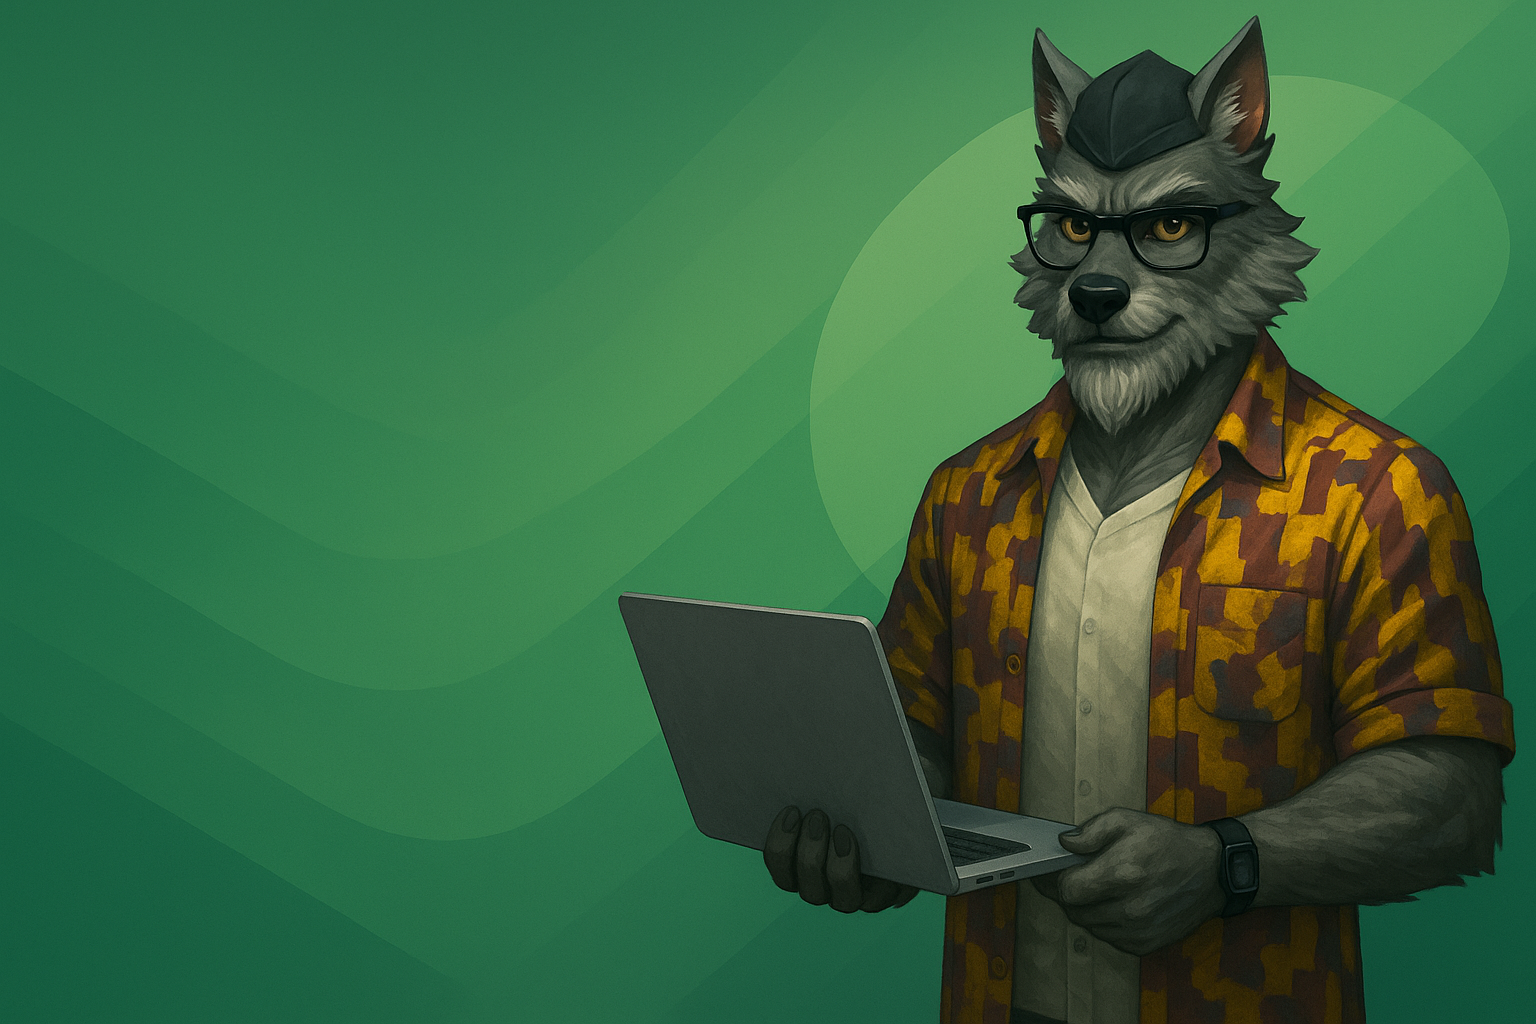
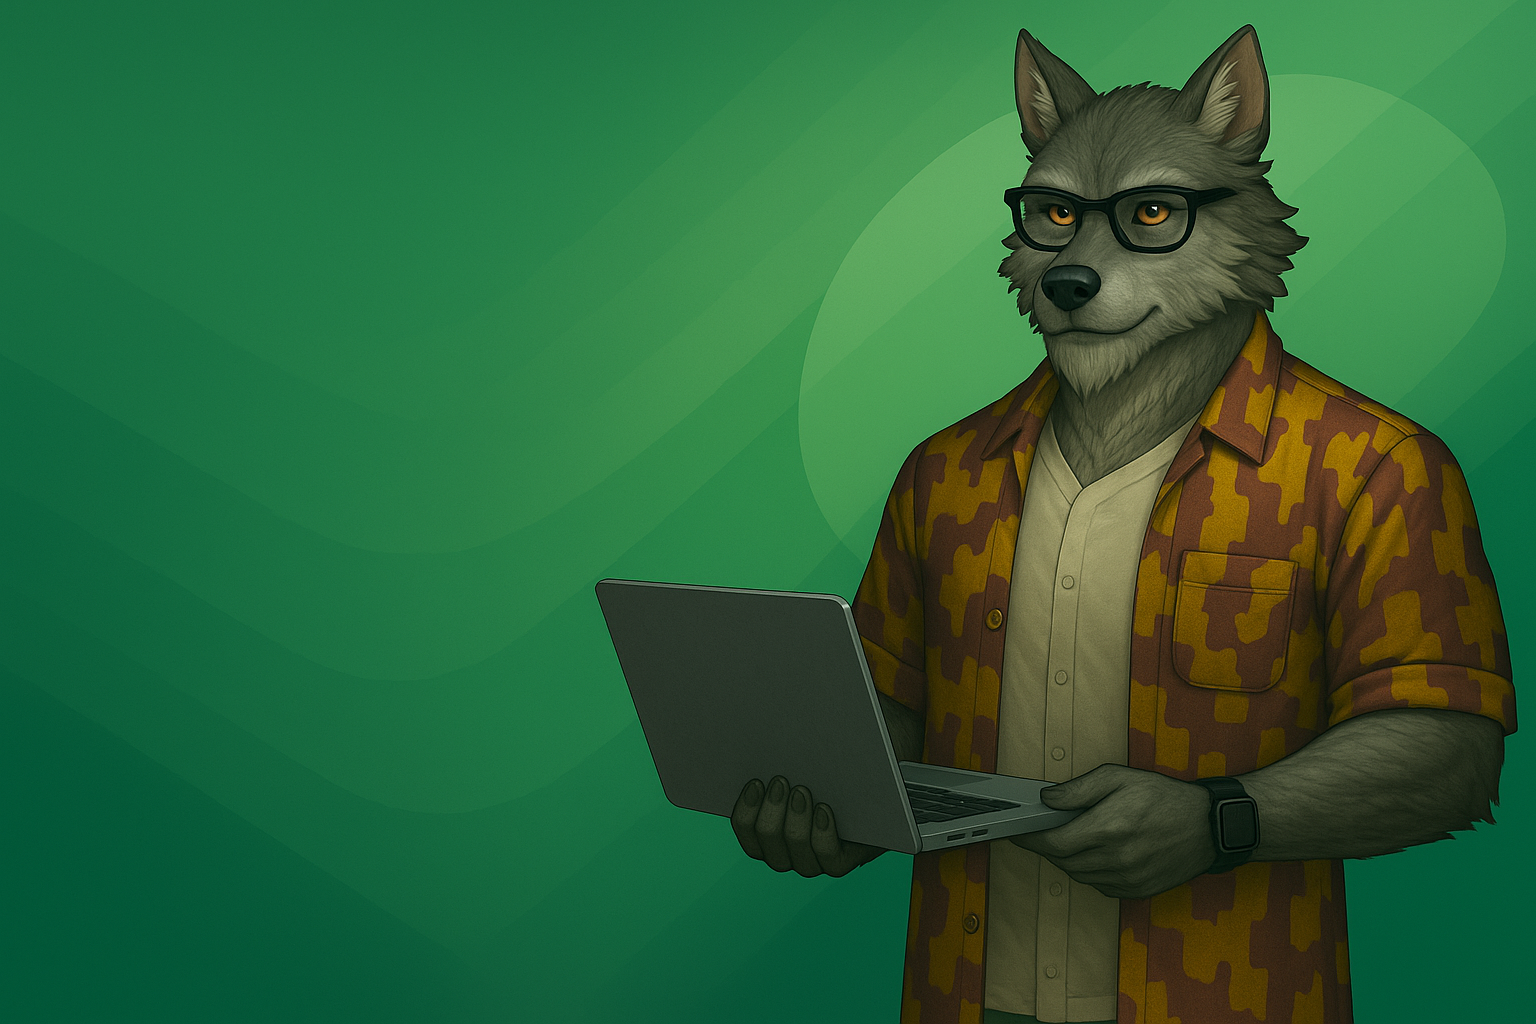
made monotone colorchanged background image, made animation smaller

diff --git a/styles/styles.css b/styles/styles.css
@@ -16,6 +16,7 @@ body {
     background-size: cover;
     background-attachment: fixed; /* optional for a parallax effect */
     min-height: 100vh;
+    color: #142520;
 }
 
 .navbar {
@@ -24,7 +25,7 @@ body {
     align-items: center;
     position: sticky;
     top: 0;
-    background-color: rgba(45, 126, 62, 0.95); /* optional transparency */
+    background-color: #297a69; /* optional transparency */
     z-index: 1000;
     box-shadow: 0 2px 8px rgba(0,0,0,0.3);
 }
@@ -69,13 +70,14 @@ main{
 }
 
 .hero{
-    background-color: #0c743a;
+    background-color: #2b8a76;
     width: 65%;
     border-radius: 20px;
     padding: 20px;
     /* text-align: center; */
     position: relative;
     margin: 11em 20px;
+    box-shadow: 0 2px 8px rgba(0,0,0,0.3);
 }
 
 .hero p,.hero ul li{
@@ -87,7 +89,7 @@ main{
 .skill-flow{
     width: 100%;
     position: absolute;
-    top: -11em;
+    top: -185px;
     left: 0;
     display: flex;
 }
@@ -98,16 +100,18 @@ main{
 }
 
 .animation-frame{
-    margin: 0 auto;
-    width: 1em;
+    margin: 5px auto;
+    width: 2px;
     height: 9em;
-    background-color: #10a8af;
+    background-color: #256658;
+    text-align: center;
 }
 
 .box-enter{
-    width: 1em;
+    width: 5px;
     height: 9em;
-    background-color: #163D1F;
+    margin-left: -2px;
+    background-color: #2e48b0;
     animation: box-enter 3s ease 0s infinite forwards;
 }
 
@@ -153,7 +157,7 @@ main{
 .portfolio {
     width: 100%;
     position: absolute;
-    bottom: -11em;
+    bottom: -185px;
     left: 0;
     text-align: center;
 }

diff --git a/index.php b/index.php
@@ -87,7 +87,7 @@
 
                 <header>
                     <h1>Welcome! I'm Surya Adhikari, a Web Developer and Blogger</h1>
-                    <p>I have a passion for crafting engaging creative, research intensive and technical content. With over 6 years of experience in web development, I specialize in HTML, CSS, JavaScript, and PHP. Explore my portfolio and blog to discover my latest projects and insights.</p>
+                    <p>I have a passion for crafting engaging, creative, research intensive and technical content. With over 6 years of experience in web development, I specialize in HTML, CSS, JavaScript, and PHP. Explore my portfolio and blog to discover my latest projects and insights.</p>
                 </header>
             
                 <!-- About Me Section -->
